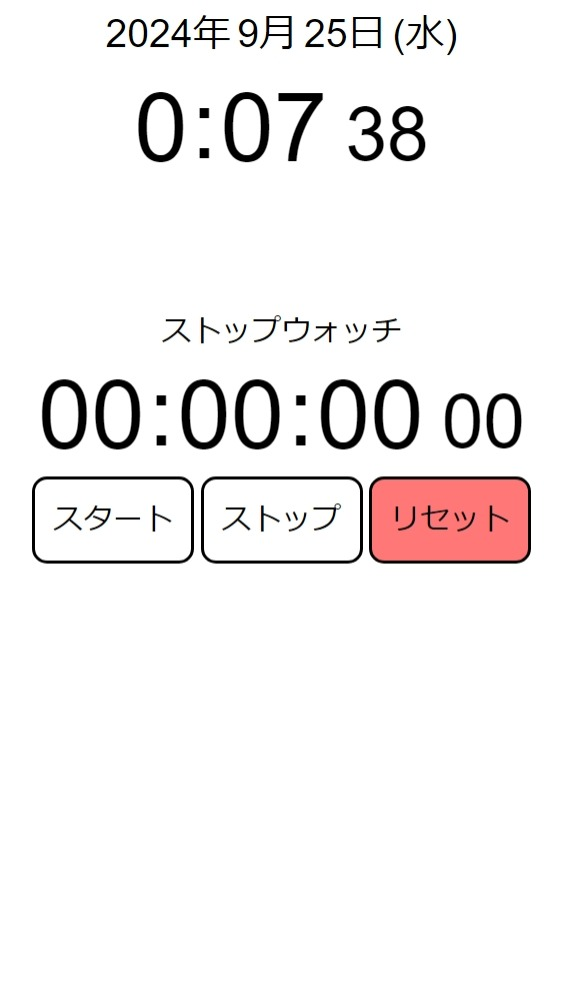
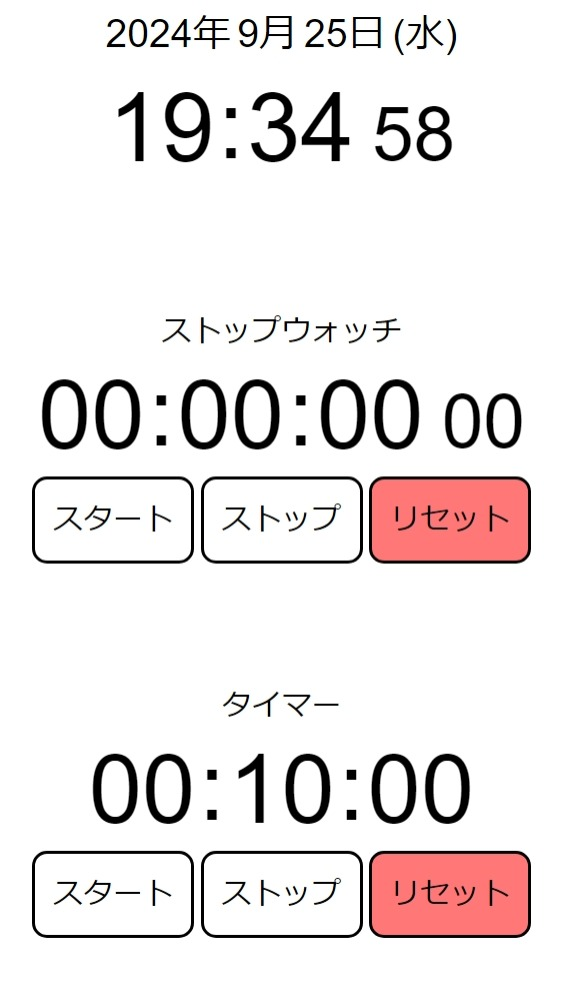
fix timer

diff --git a/modules/timer.js b/modules/timer.js
@@ -62,11 +62,7 @@ export class Timer {
     if (this.timerchange_wrapper !== null) {
       this.timerTime = toTime(Math.max(0, Number(this.hour_input.value)), Math.max(0, Number(this.minute_input.value)), Math.max(0, Number(this.second_input.value)));
       localStorage.setItem('kunugisoft_timer_timertime', this.timerTime);
-      this.timerchange_wrapper.remove();
-      this.timerchange_wrapper = null;
-      this.hour_input = null;
-      this.minute_input = null;
-      this.second_input = null;
+      this.removeChangeWrapper();
     }
     localStorage.removeItem('kunugisoft_timer_stoptime');
     if (this.startTime === null) {
@@ -82,6 +78,10 @@ export class Timer {
       this.startTime = null;
       localStorage.setItem('kunugisoft_timer_stoptime', this.stopTime);
       localStorage.removeItem('kunugisoft_timer_starttime');
+
+      const elapsed_time = this.stopTime + ((this.startTime !== null) ? Date.now() - this.startTime : 0);
+      let remaining_time = this.timerTime - elapsed_time;
+      if (remaining_time <= 0) this.reset();
     }
   }
 
@@ -144,6 +144,14 @@ export class Timer {
     this.second_input = second_input;
   }
 
+  removeChangeWrapper() {
+    this.timerchange_wrapper.remove();
+    this.timerchange_wrapper = null;
+    this.hour_input = null;
+    this.minute_input = null;
+    this.second_input = null;
+  }
+
   update() {
     const elapsed_time = this.stopTime + ((this.startTime !== null) ? Date.now() - this.startTime : 0);
     let remaining_time = this.timerTime - elapsed_time;
@@ -155,9 +163,12 @@ export class Timer {
         this.soundCount = 0;
       }
       remaining_time = 0;
+      this.wrapper.classList.add('stopwatch_time_over');
+    } else {
+      this.wrapper.classList.remove('stopwatch_time_over');
     }
 
-    remaining_time = Math.floor(remaining_time / 1000);
+    remaining_time = Math.floor(remaining_time / 1000 + 0.99);
     const second = remaining_time % 60;
     this.second1.textContent = (second / 10 >= 1) ? Math.floor(second / 10) : '0';
     this.second2.textContent = second % 10;

diff --git a/main.js b/main.js
@@ -24,6 +24,10 @@ function init() {
   timer_title.textContent = 'タイマー';
   main.appendChild(timer_title);
   main.appendChild(timer.wrapper);
+
+  const marginBottom = document.createElement('div');
+  marginBottom.classList.add('marginBottom');
+  main.appendChild(marginBottom);
 }
 
 window.onload = init;

diff --git a/sw.js b/sw.js
@@ -1,4 +1,4 @@
-const CACHE_NAME = 'KUNUGISOFT_CLOCK_CACHE_1.1.0';
+const CACHE_NAME = 'KUNUGISOFT_CLOCK_CACHE_1.1.1';
 const PRE_CACHED_RESOURCES = [
     'index.html',
     'main.js',

diff --git a/style.css b/style.css
@@ -86,3 +86,11 @@ main {
   display: block;
   margin: 10px;
 }
+
+.marginBottom {
+  margin-bottom: 30px;
+}
+
+.stopwatch_time_over {
+  background-color: #f77;
+}
